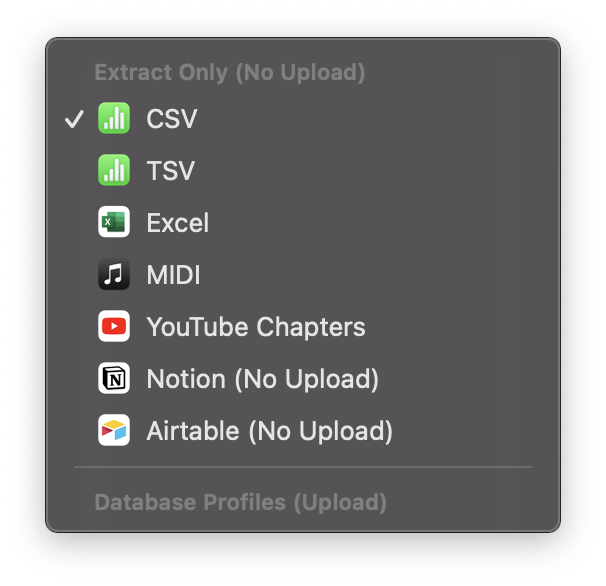
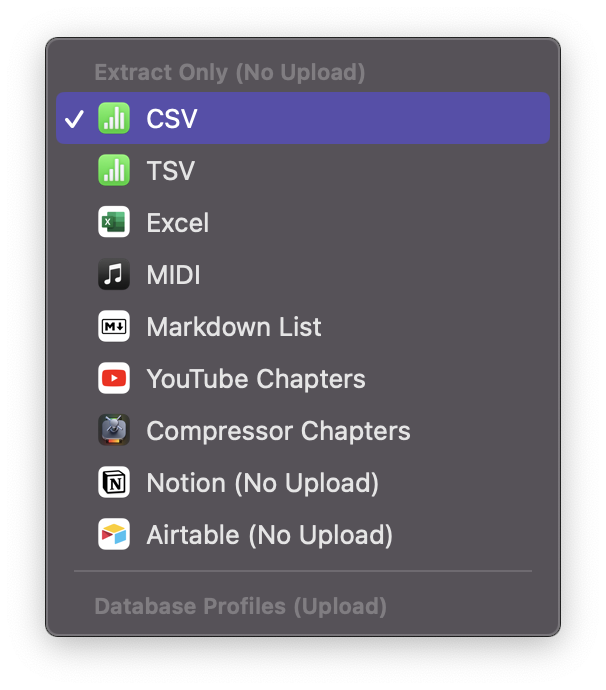
Update

Changed region(s): [[0.0594, 0.0307, 0.9208, 0.7986], [0.0594, 0.8294, 0.9505, 0.9215]]

diff --git a/docs/README.md b/docs/README.md
@@ -42,6 +42,8 @@ The avant-garde Marker extraction application crafted for [Final Cut Pro](https:
 - Tab-separated values (TSV) - Compatible with spreadsheet application
 - Microsoft Excel (XLSX)
 - YouTube Chapters (TXT)
+- Compressor Chapters (TXT)
+- Markdown List (MD)
 - Standard MIDI File - Compatible with most audio DAWs
 
 ## Demo

diff --git a/docs/release-notes.md b/docs/release-notes.md
@@ -5,6 +5,17 @@ order: -98
 ---
 # Release Notes
 
+### 1.3.0 (11)
+
+**🎉 Released:**
+- 8th July 2025
+
+**🔨 Improvements:**
+- Added new **Compressor Chapters** Profile
+- Added new **Markdown List** Profile
+
+<hr>
+
 ### 1.2.3 (10)
 
 **🎉 Released:**

diff --git a/docs/User Guide/General.md b/docs/User Guide/General.md
@@ -46,7 +46,9 @@ Select your desired Extraction Profile.
 	- **TSV**
 	- **Excel**
 	- **MIDI**
+	- **Markdown List**
 	- **YouTube Chapters**
+	- **Compressor Chapters**
 	- **Notion (No Upload)**
 	- **Airtable (No Upload)**
 - Database Profiles (Upload)
